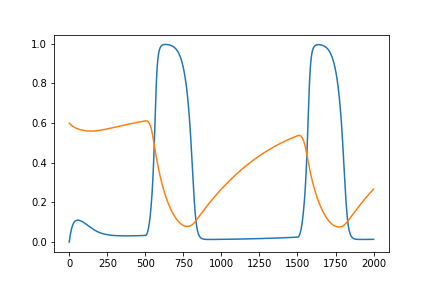
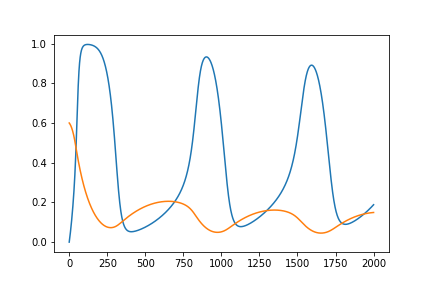
グラフの大幅な改善

diff --git a/ホジキン-ハクスレイ.py b/ホジキン-ハクスレイ.py
@@ -28,7 +28,7 @@ class Freq_Counter:
 
     def get_Freq(self):
         if(len(self.detected)<2):
-            print('There is not enough data.')
+            #print('There is not enough data.')
             return 0
 
         diff=np.diff(self.detected)
@@ -45,18 +45,18 @@ class Neuron:
     gNa=120
     gk=36
     gL=0.3
-    INa=1
-    Ik=1
-    IL=1
     ENa=55
     Ek=-77
     EL=-54.387
-    m=0
-    h=1
-    n=0
     delta_t=0.01
 
     def __init__(self,V0):
+        self.m=0
+        self.h=0.6
+        self.n=0.4
+        self.INa=1
+        self.Ik=1
+        self.IL=1
         self.V=V0
 
     def calc(self,I):
@@ -89,6 +89,12 @@ class Neuron:
     def get_n(self):
         return self.n
 
+    def get_h(self):
+        return self.h
+
+    def get_m(self):
+        return self.m
+
     def get_params(self):
         return 'V:'+str(self.V)+' INa:'+str(self.INa)+' Ik:'+str(self.Ik)+' IL:'+str(self.IL)+' m:'+str(self.m)+' h:'+str(self.h)+' n:'+str(self.n)
 
@@ -97,42 +103,89 @@ class Neuron:
 #tは時間、Iは電流値[mA]
 
 t = 2000
-I = 80
+t_I=500
+I = 100
 Nu=Neuron(-50)
 freq_counter=Freq_Counter(-10)
 
 x = np.linspace(0,t,t)
 y= []
+ms=[]
+hs=[]
+ns=[]
+Is=[]
+
 y.append(Nu.get_V())
+ms.append(Nu.get_m())
+hs.append(Nu.get_h())
+ns.append(Nu.get_n())
+Is.append(0)
 for i in range(t-1):
-    now_V=Nu.calc(I)
+    now_I=I
+    if (i>t_I and i<t_I+100):
+        now_I=I
+    if (i>t_I+1000 and i<t_I+1100):
+        now_I=I
+    now_V=Nu.calc(now_I)
     y.append(now_V)
+    Is.append(now_I)
+    ms.append(Nu.get_m())
+    hs.append(Nu.get_h())
+    ns.append(Nu.get_n())
+    '''
+    print('m:'+str(Nu.get_m()))
+    print('h:'+str(Nu.get_h()))
+    print('n:'+str(Nu.get_n()))
+    '''
     freq_counter.update(now_V)
-
-
     #print(Nu.get_params())
 
-plt.plot(x,y,label='Test')
-plt.savefig('Hudgkin-Huxley.png')
+fig,(ax_I,ax_V,ax_param)=plt.subplots(3,1)
+fig.set_figheight(15)
+fig.set_figwidth(7)
+ax_V.plot(x,y,label='V')
+ax_V.set_xlabel('Time')
+ax_V.set_ylabel('Voltage')
+ax_V.legend()
+#plt.savefig('Hudgkin-Huxley.png')
 print(str(freq_counter.get_Freq())+'Hz')
-fig=plt.figure()
+#plt.clf()
+ax_I.plot(x,Is,label='I')
+ax_I.set_xlabel('Time')
+ax_I.set_ylabel('Input current')
+ax_I.legend()
+#plt.savefig('HH-It.png')
+#plt.clf()
+ax_param.plot(x,ms,label='m')
+#plt.savefig('HH-mt.png')
+#plt.clf()
+ax_param.plot(x,hs,label='h')
+#plt.savefig('HH-ht.png')
+#plt.clf()
+ax_param.plot(x,ns,label='n')
+ax_param.set_xlabel('Time')
+ax_param.set_ylabel('Gates')
+ax_param.set_ylim(0,1.5)
+ax_param.legend()
+plt.show()
+fig.savefig('HH.png')
 #print(y)
 
 #%% Fq-Iグラフ
 def simulate(I,t):
     Neuro=Neuron(-50)
-    fc=Freq_Counter(-20)
+    fc=Freq_Counter(-10)
     for i in range(t):
         fc.update(Neuro.calc(I))
-    print(fc.get_count())
+    #print(fc.get_count())
     return(fc.get_Freq())
 
 Freqs=[]
 Is=[]
-for I in range(10,200,2):
+for I in range(0,200,2):
     #print(I)
     Is.append(I)
-    Freqs.append(simulate(I,1000))
+    Freqs.append(simulate(I,3000))
 
 plt.plot(Is,Freqs,label='Fq-I')
 plt.savefig('HH-FqI.png')
